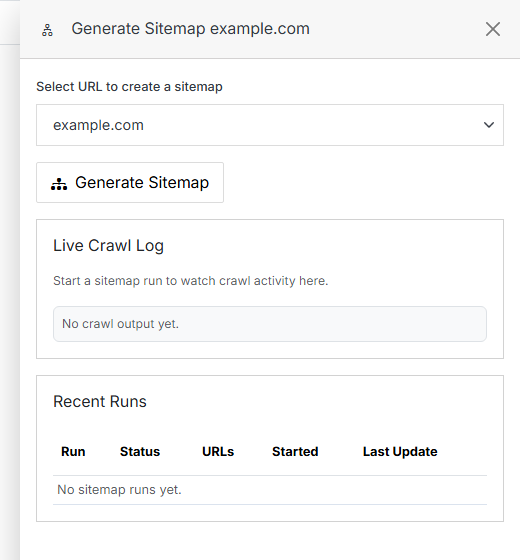
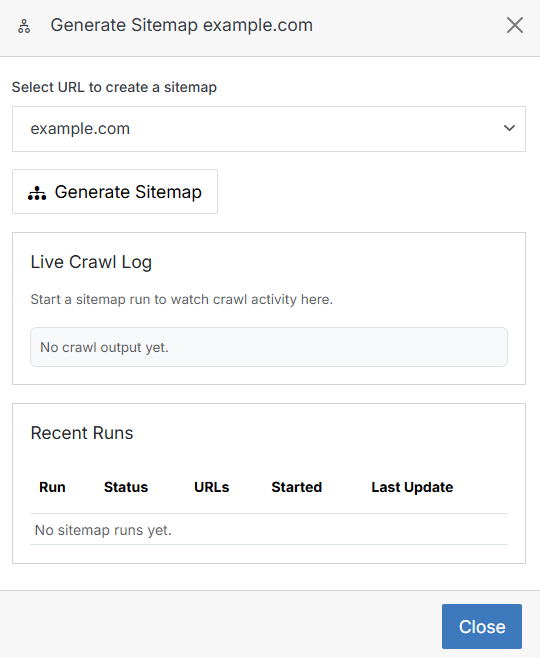
Update content and add image on generate sitemap

diff --git a/src/Websites/Website Overview/Generate Sitemap/index.md b/src/Websites/Website Overview/Generate Sitemap/index.md
@@ -1,10 +1,10 @@
 # Generate Sitemap
 
-A sitemap is an .xml file that lists and organizes all the web pages within a site. It helps search engines understand the site's structure and how its pages connect.
+A sitemap is an `.xml` file that lists and organizes all the web pages within a site. It helps search engines understand the site's structure and how its pages are connected. After generating the sitemap, you can find **sitemap.xml** under the **www** folder. 
 
-From the website dashboard, open the **Update** menu and select **Generate Sitemap**.
+From the website dashboard, open the **Update** dropdown menu and select **Generate Sitemap**.
 
-<p><img src="../../../images/websites/generate-sitemap.png" alt="Generate Sitemap panel" style="max-width: 520px;"></p>
+<p><img src="../../../images/websites/generate-sitemap.png" alt="Generate Sitemap panel" style="max-width: 520px;" class="border"></p>
 
 **Name** | **Description**
 :--- | ---
@@ -14,5 +14,5 @@ Live Crawl Log | Shows crawl activity in real time once a run starts.
 Recent Runs | Lists past sitemap runs with their status, URL count, and start/last-update times.
 
 !!! Note
-Generating a sitemap runs as a background job and can take several minutes on a large site. Watch the Live Crawl Log while it runs &mdash; don't close the panel until it finishes.
+Generating a sitemap runs as a background job and can take several minutes on a large site. Watch the Live Crawl Log while it runs.
 !!!

diff --git a/src/Websites/Website Overview/Vhost/index.md b/src/Websites/Website Overview/Vhost/index.md
@@ -2,6 +2,8 @@
 
 Vhost (virtual host) applies to a specific website in the CMS. Administrators configure the website's primary URL here, set a domain for staging, add redirects, and manage CDN/SSL and other advanced settings. This article covers Vhost and its configurable fields.
 
+From the website dashboard, open the **Update** dropdown menu and select **Vhost**.
+
 <p><img src="../../../images/websites/settings/vhost.png" alt="Vhost panel" style="max-width: 500px;" class="border"></p>
 
 **Name** | **Description** 
